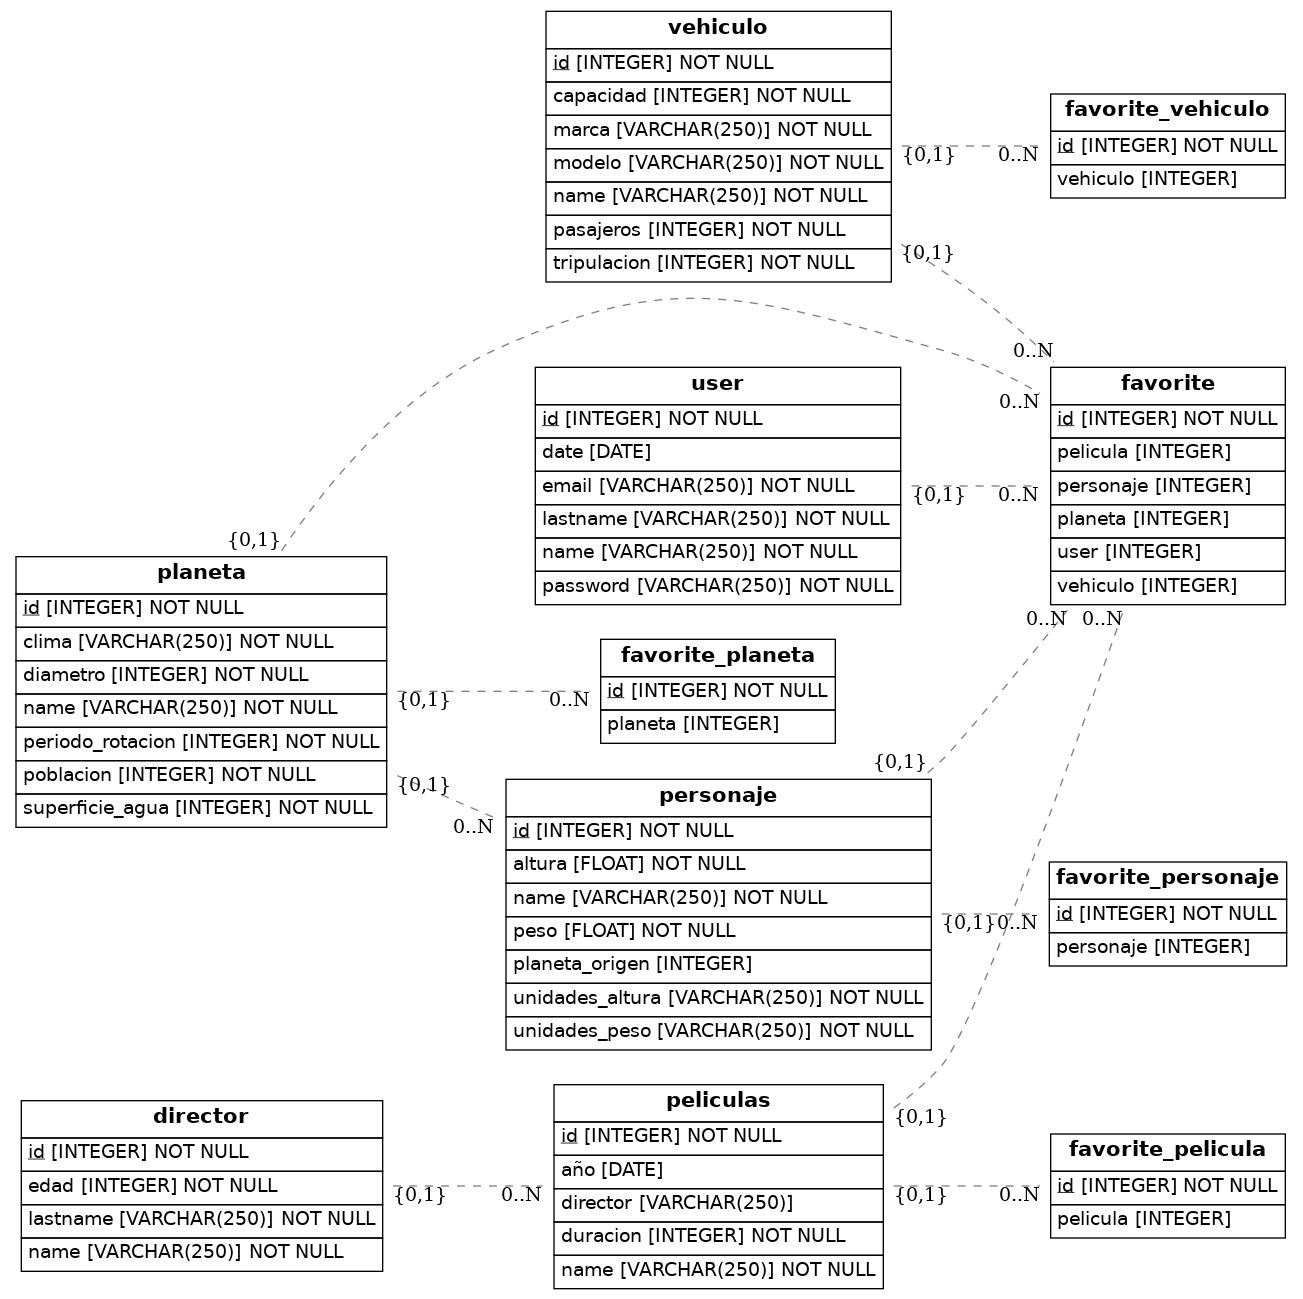
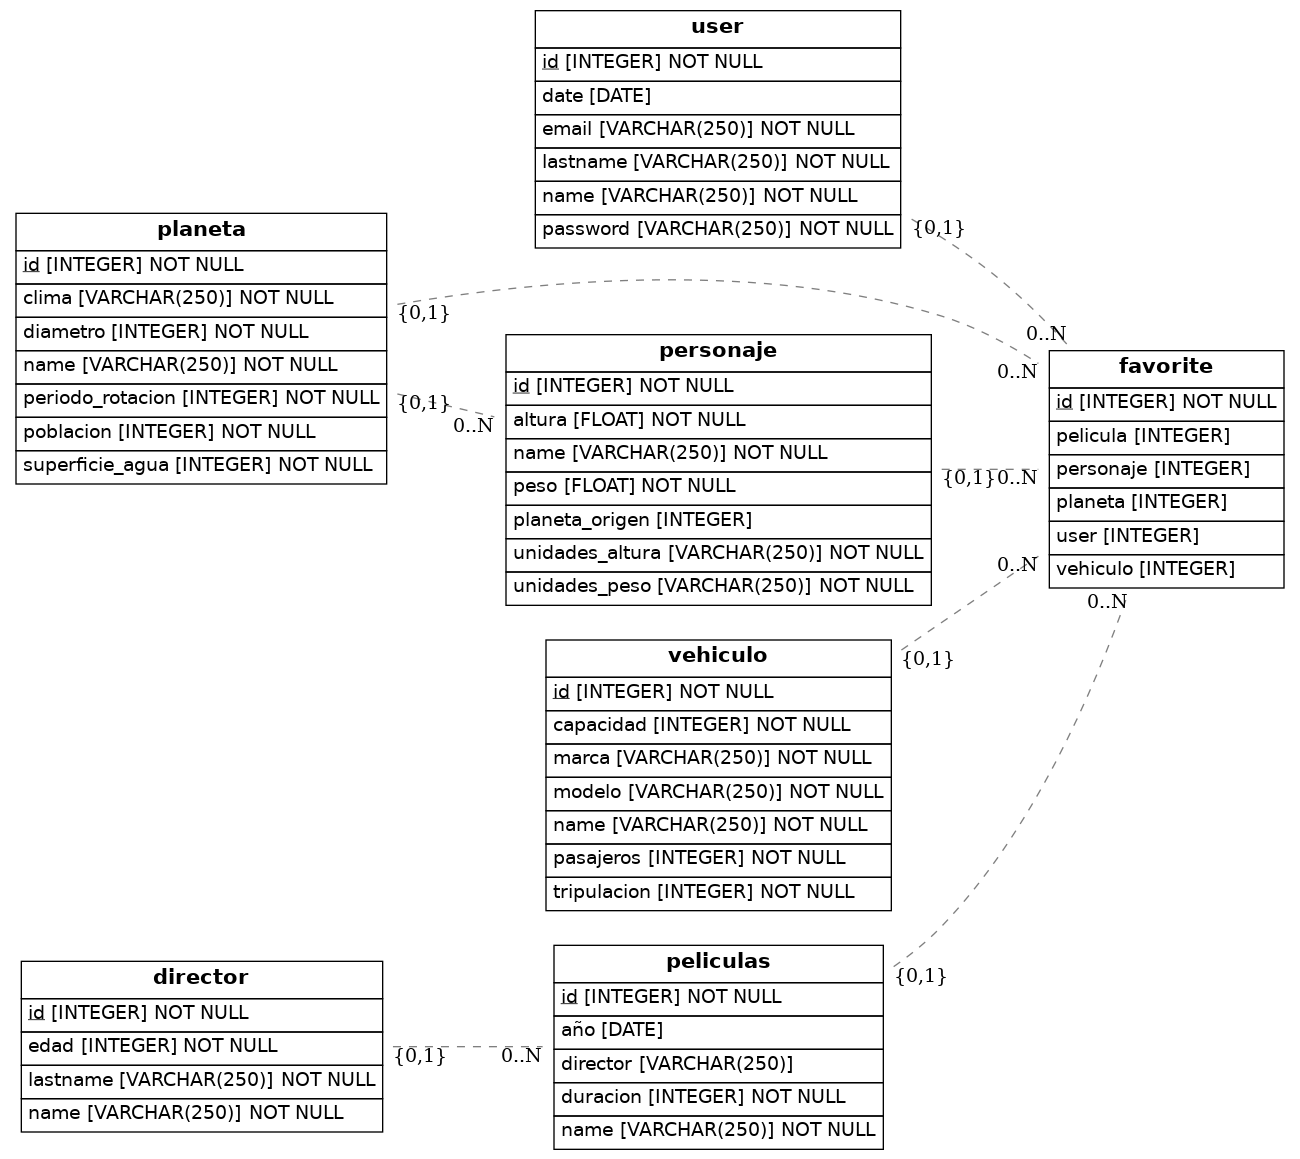
alexAcepta

diff --git a/src/models.py b/src/models.py
@@ -77,38 +77,7 @@ class Director(Base):
     name = Column(String(250), nullable=False)
     lastname = Column(String(250), nullable=False)
     edad = Column(Integer, nullable=False)
-    
-class Favorite_Planeta(Base):
-    __tablename__ = 'favorite_planeta'
-    id = Column(Integer, primary_key=True)
-    planeta = Column(Integer, ForeignKey("planeta.id"))
 
-    def to_dict(self):
-        return {}
-    
-class Favorite_Vehiculo(Base):
-    __tablename__ = 'favorite_vehiculo'
-    id = Column(Integer, primary_key=True)
-    vehiculo = Column(Integer, ForeignKey("vehiculo.id"))
-
-    def to_dict(self):
-        return {}
-    
-class Favorite_Personaje(Base):
-    __tablename__ = 'favorite_personaje'
-    id = Column(Integer, primary_key=True)
-    personaje = Column(Integer, ForeignKey("personaje.id"))
-
-    def to_dict(self):
-        return {}
-    
-class Favorite_Pelicula(Base):
-    __tablename__ = 'favorite_pelicula'
-    id = Column(Integer, primary_key=True)
-    pelicula = Column(Integer, ForeignKey("peliculas.id"))
-
-    def to_dict(self):
-        return {}
     
 class Favorite(Base):
     __tablename__ = 'favorite'
